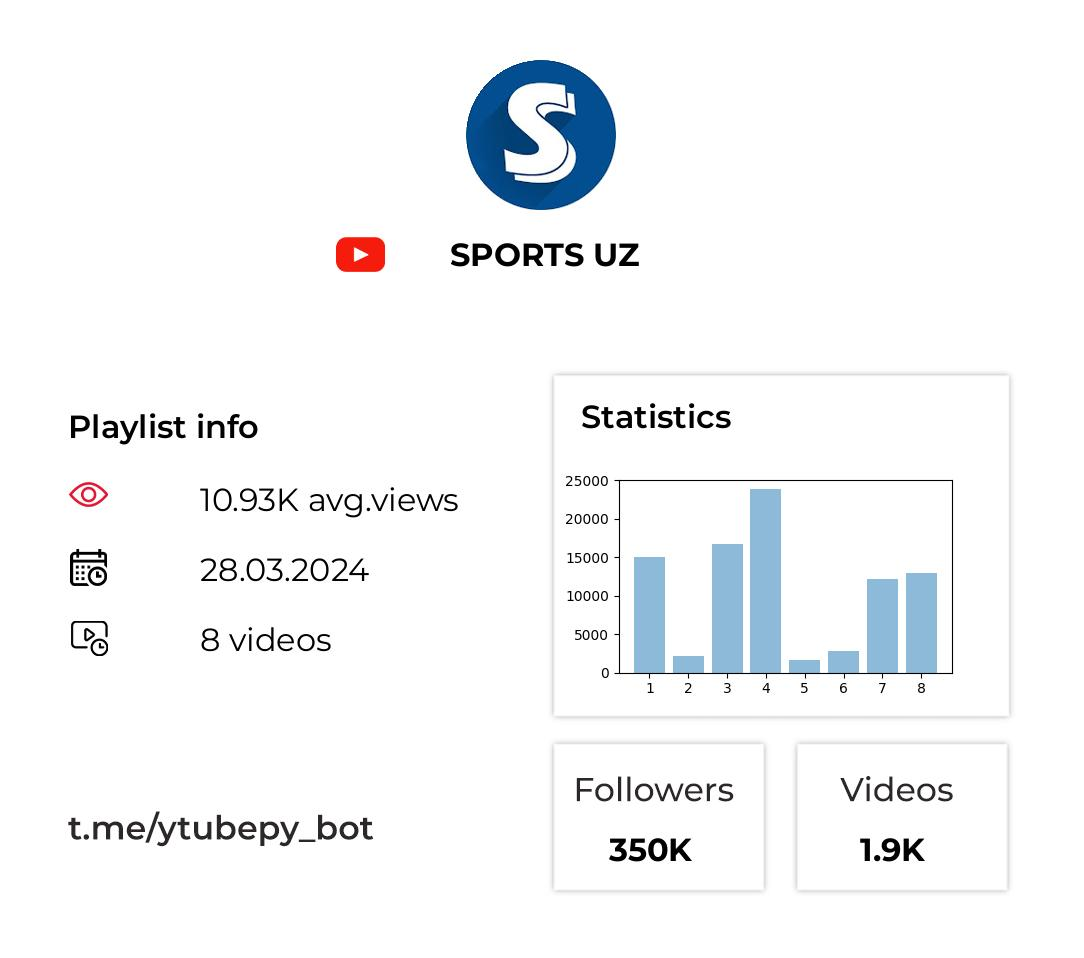
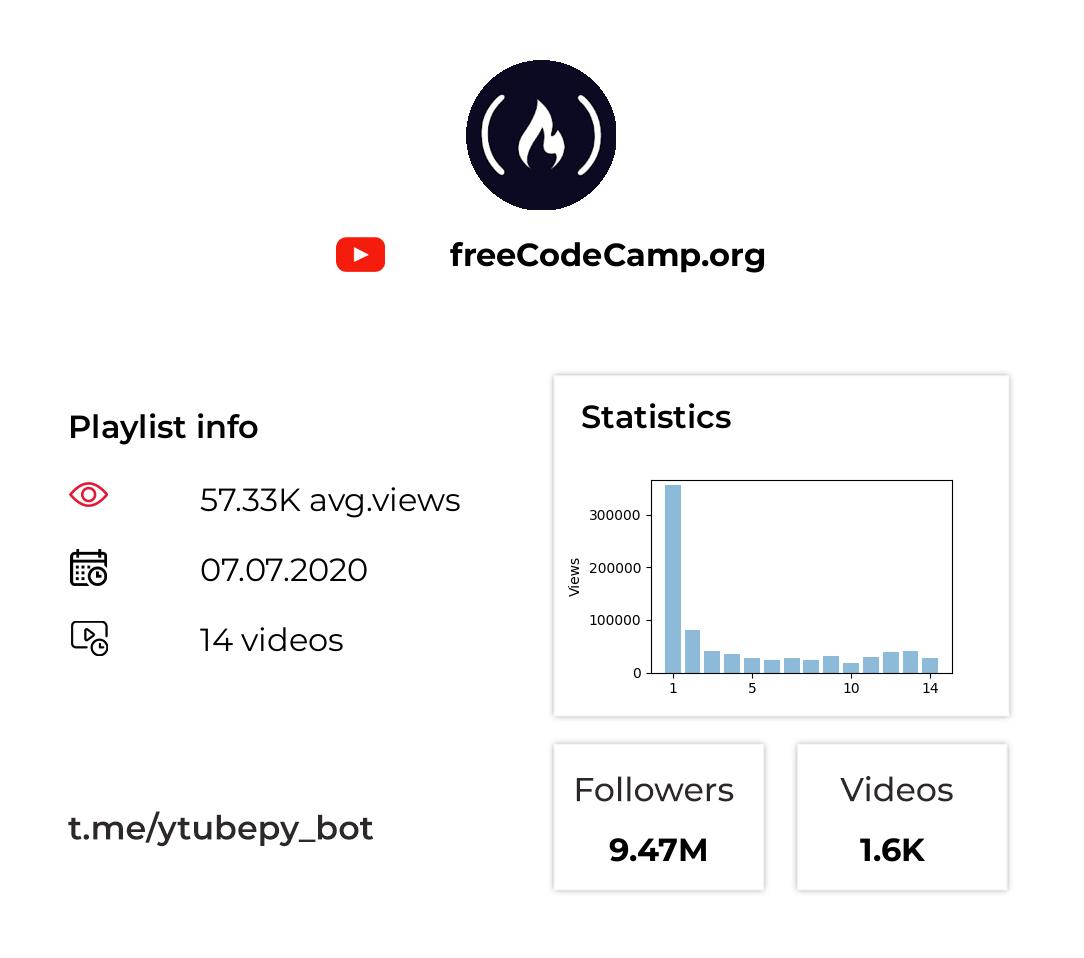
fixed padding problem

diff --git a/image/getimage.py b/image/getimage.py
@@ -76,7 +76,7 @@ def getimage(data, content):
 		objects = [i for i in range(1, len(data["all_views"]) + 1)]
 		y_pos = np.arange(len(objects))
 		performance = data["all_views"]
-
+		print(performance)
 		plt.subplots(figsize=(4.3, 2.5))
 		plt.bar(y_pos, performance, align='center', alpha=0.5)
 		if len(objects)>10:
@@ -90,10 +90,13 @@ def getimage(data, content):
 		else:
 			plt.xticks(y_pos, objects)
 		plt.ylabel('Views')
+		plt.subplots_adjust(left=0.2)
+		plt.ylim(0, max(performance) + 10000)
   
 		# Save the plot to a BytesIO object
 		graph_buffer = BytesIO()
 		plt.savefig(graph_buffer, format='png')
+		# plt.show()
 		plt.close()
 
 		# Open the saved plot as an image

diff --git a/getdata.py b/getdata.py
@@ -90,7 +90,7 @@ def generate_data(url, content):
         data["all_views"] = data_list
         data["views"] = num2text(sum(data_list)/len(data_list))
         data["length"] = f"{len(data_list)} videos"
-    
+    print(data_list)
     return data 
 
 file_name = os.path.join(cur_dir, "result.jpg")
@@ -113,4 +113,4 @@ def get_url(url, content):
     return generated_Link
 
 
-print(get_url("https://youtube.com/playlist?list=PLNVG-lhrskZr8mddtLriGu7fkFnX9SzVC&si=qBK83S4HSZ16rxRS", "playlist"))
+print(get_url("https://youtube.com/playlist?list=PLWKjhJtqVAbkmRvnFmOd4KhDdlK1oIq23&si=LQMt72K43MogNlT4", "playlist"))
